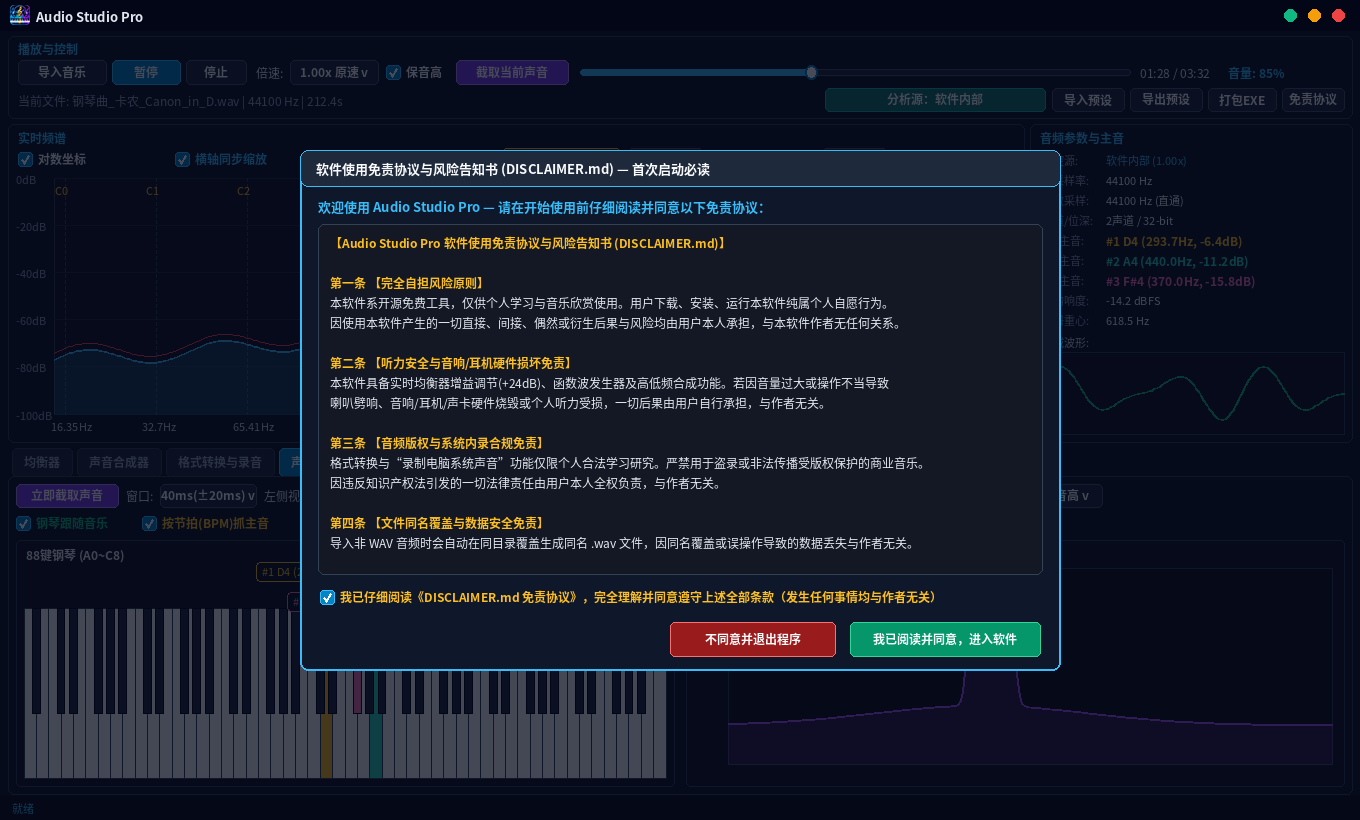
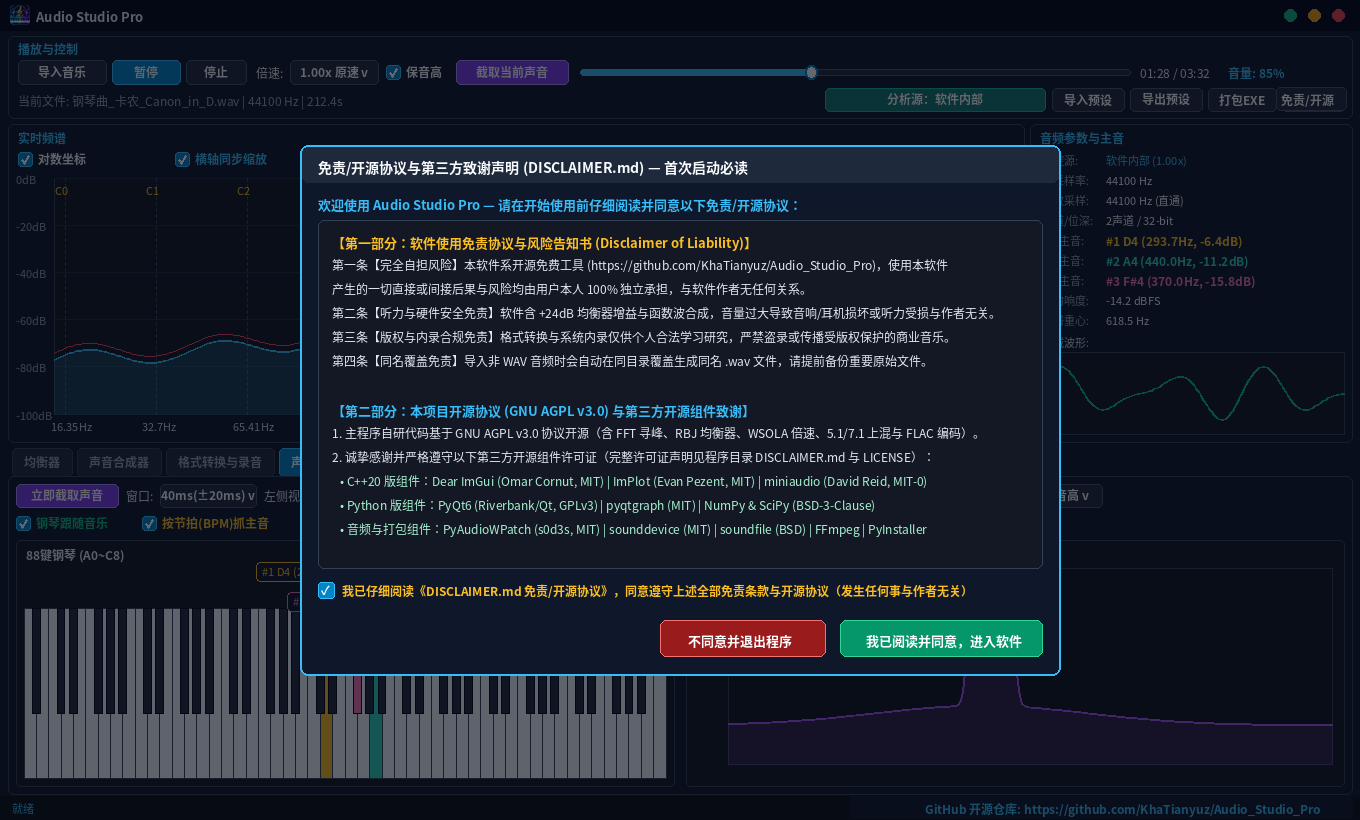
修复了md文档显示问题

diff --git a/README.md b/README.md
@@ -1,6 +1,4 @@
-&lt;p align=&quot;center&quot;&gt;
-  &lt;img src=&quot;assets/app_icon.png&quot; width=&quot;120&quot; alt=&quot;Audio Studio Pro 图标&quot;&gt;
-&lt;/p&gt;
+![Audio Studio Pro 图标](assets/app_icon_120.png)
 
 # 🎵 Audio Studio Pro — 零基础也能看懂的音乐看音、88键钢琴跟谱、调音与内录神器（Python & C++20 双版本）
 
@@ -43,13 +41,13 @@
 
 第一次双击打开软件时，屏幕中央会弹出 **《免责/开源协议与第三方致谢声明 (DISCLAIMER.md)》** 窗口：
 
-
+![首次打开软件时的免责与开源协议确认弹窗](assets/screenshots/02_first_launch_disclaimer.png)
 
 - **怎么操作**：
   1. 请先向下滚动阅读里面的 **免责条款**（尤其是戴耳机调试合成器或拉高均衡器增益时请注意把音量调小，保护听力和音响硬件；导入非 `.wav` 音乐时软件会自动在同文件夹生成同名 `.wav` 文件）以及 **开源协议与第三方开源组件致谢**。
   2. 勾选底部的黄色复选框 **“我已仔细阅读《DISCLAIMER.md 免责/开源协议》……”**。
   3. 点击右侧绿色的 **【我已阅读并同意，进入软件】** 按钮即可进入主界面。
-  4. **以后不用每次都点**：软件会在程序旁边自动生成一个小小的 `.disclaimer_accepted.json` 记忆文件，下次打开就会直接进入主界面。如果以后想再次查看，随时点击主界面右上角的 **【免责/开源】** 按钮即可。
+  4. **以后不用每次都点**：软件会在程序旁边自动生成一个小小的 `.disclaimer_accepted.json` 记忆文件，下次打开就会直接进入主界面。如果以后想再次查看，随时点击主界面右上角的 **【免责/开源协议】** 按钮即可。
 
 ---
 
@@ -59,7 +57,7 @@
 
 当你导入一首歌，或者点击切换到第 4 个标签页 **【声音截取与钢琴】** 时，你会看到如下画面：
 
-
+![主界面：实时看音名与88键钢琴节拍跟谱](assets/screenshots/01_main_spectrum_and_piano.png)
 
 #### 👇 零基础一步步教你用：
 
@@ -89,7 +87,7 @@
 
 点击中间第 1 个标签页 **【均衡器】**，即可进入可视化调音台：
 
-
+![可拖动线条的均衡器画面](assets/screenshots/03_draggable_eq_curve.png)
 
 #### 👇 零基础一步步教你用：
 
@@ -113,7 +111,7 @@
 
 点击中间第 2 个标签页 **【声音合成器】**，你就拥有了一台数字乐器实验室：
 
-
+![乐器音色模拟与多声音混音画面](assets/screenshots/04_synth_and_recording.png)
 
 #### 👇 零基础一步步教你用：
 
@@ -135,7 +133,7 @@
 
 点击中间第 3 个标签页 **【格式转换与录音】**，左边是全格式重采样转换器，右边是无损录音机：
 
-
+![格式转换与多声道环绕声录音画面](assets/screenshots/05_format_convert_and_recording.png)
 
 #### 👇 左半边：【重采样与格式转换】怎么用？
 
@@ -223,6 +221,7 @@ Audio_Studio_Pro/
 ├── .gitignore                 # 自动忽略 build/、dist/、.vs/ 等编译临时文件
 ├── assets/
 │   ├── app_icon.png           # 软件高清图标 (512x512 PNG)
+│   ├── app_icon_120.png       # 适配 README 顶部展示的 120x120 图标
 │   ├── app_icon.ico           # Windows 多尺寸原生图标 (.ico)
 │   └── screenshots/           # 软件五大界面高清实机截图 (01 ~ 05)
 ├── cpp_version/
@@ -246,7 +245,7 @@ Audio_Studio_Pro/
 ## 📜 七、开源协议与第三方开源组件致谢
 
 - **官方开源仓库**：[https://github.com/KhaTianyuz/Audio_Studio_Pro](https://github.com/KhaTianyuz/Audio_Studio_Pro)
-- **项目主开源协议**：本项目基于 **[GNU Affero General Public License v3.0 (AGPL-3.0)](https://www.google.com/search?q=LICENSE)** 协议开源发布。您可以自由使用、修改、分发本软件及自行构建的 `.exe` 程序；任何基于本项目的修改版、衍生作品或网络服务部署均须以相同的 **AGPL-3.0** 协议公开完整源代码，并保留原始免责与开源协议声明。
+- **项目主开源协议**：本项目基于 **[GNU Affero General Public License v3.0 (AGPL-3.0)](LICENSE)** 协议开源发布。您可以自由使用、修改、分发本软件及自行构建的 `.exe` 程序；任何基于本项目的修改版、衍生作品或网络服务部署均须以相同的 **AGPL-3.0** 协议公开完整源代码，并保留原始免责与开源协议声明。
 - **第三方开源组件致谢**：
   - **C++20 原生版**致谢：**Dear ImGui** (`Omar Cornut`, MIT License)、**ImPlot** (`Evan Pezent`, MIT License)、**miniaudio** (`David Reid`, Public Domain / MIT-0)。
   - **Python 版**致谢：**PyQt6** (`Riverbank Computing / The Qt Company`, GNU GPL v3.0)、**pyqtgraph** (`Luke Campagnola`, MIT License)、**NumPy & SciPy** (BSD-3-Clause License)、**PyAudioWPatch** (`Hubert Pham / s0d3s`, MIT License)、**sounddevice** (`Matthias Geier`, MIT License)、**soundfile / libsndfile** (`Bastian Bechtold`, BSD-3-Clause / LGPL-2.1+)、**imageio-ffmpeg / FFmpeg** (BSD-2-Clause / LGPLv2.1+)、**PyInstaller** (GPLv2+ with Bootloader Exception)。
